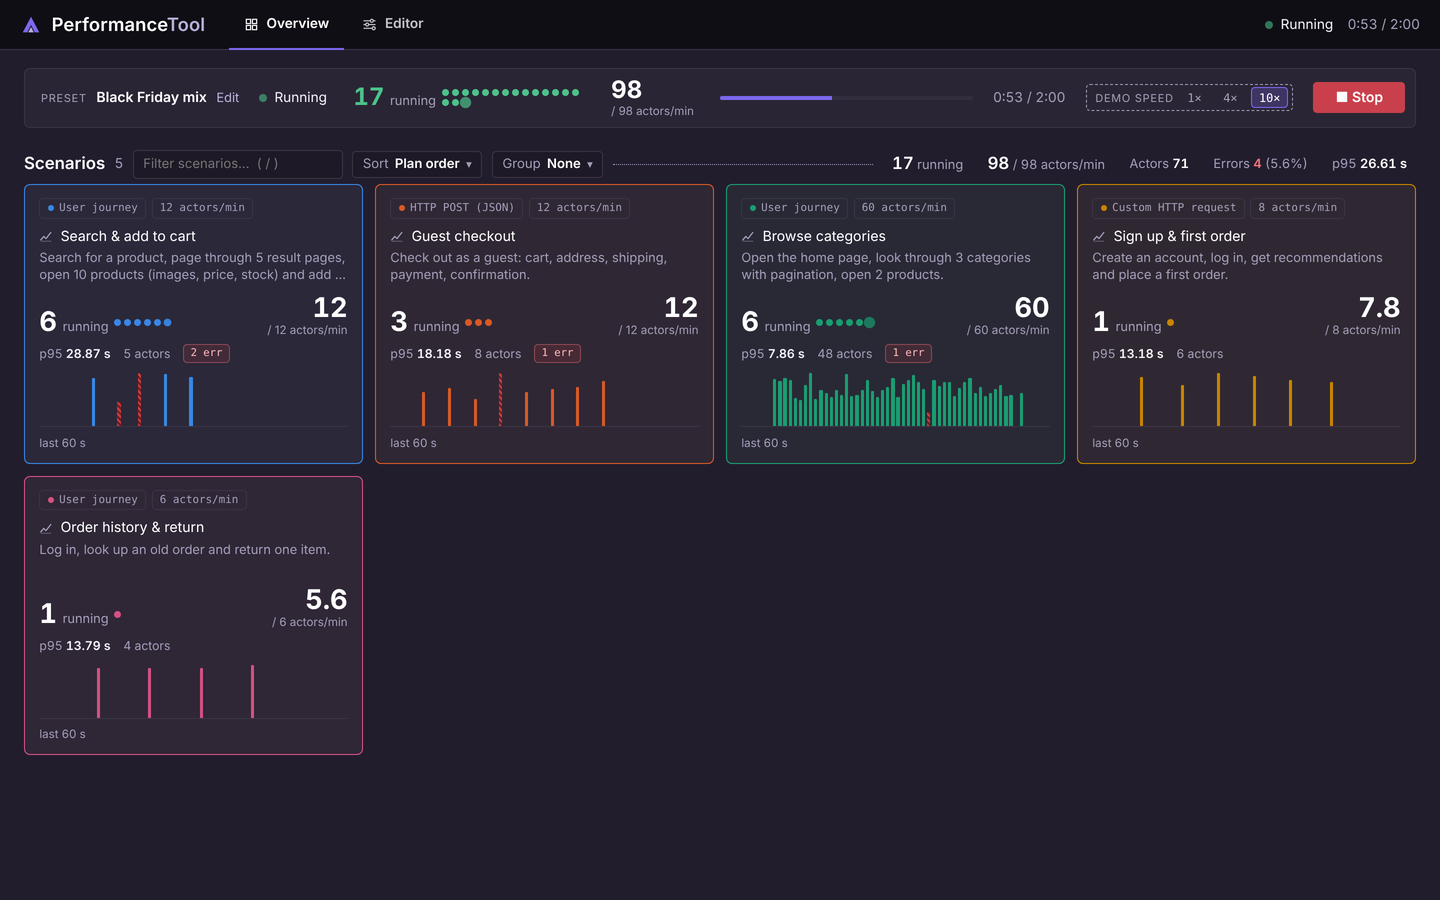
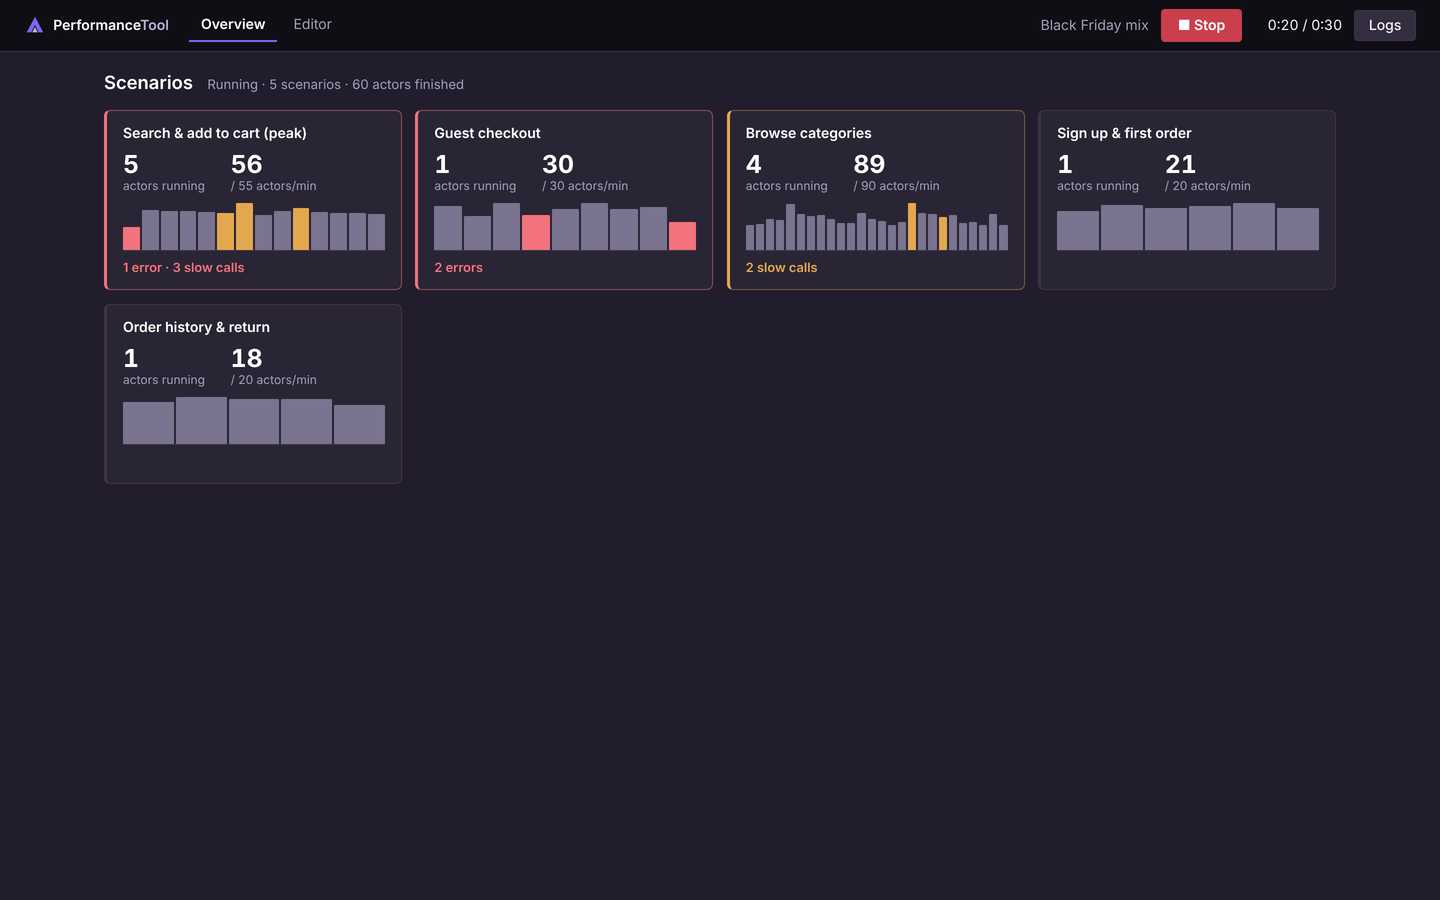
Update screenshots to the simplified core-flow UI
Claude-Session: https://claude.ai/code/session_01S8qvYakWAeYKSDu9E61EFn

diff --git a/docs/screenshots/README.md b/docs/screenshots/README.md
@@ -1,12 +1,12 @@
-# UI draft screenshots
+# UI screenshots
 
-The latest UI drafts (fake data), as shown in the pull request. Regenerate them when the drafts change.
+The current UI (fake data), as shown in pull requests. Regenerate them when the UI changes.
 
 | File | Shows |
 |---|---|
-| `01-overview-running.png` | `/drafts/overview` mid-run (demo speed 10×): story scenarios, actors running, actors/min |
-| `02-popup-calls-stacked-actor-bars.png` | Scenario popup, Calls tab: one stacked bar per actor, segments = calls (brain 0013) |
-| `03-popup-actor-waterfall.png` | Waterfall of one 48-call actor |
-| `04-popup-logs.png` | Popup Logs tab: one logging scope per actor (brain 0012) |
-| `05-editor.png` | `/drafts/editor`: scenario list + generated parameter editor |
+| `01-overview-running.png` | Overview mid-run: neutral cards, red = errors, amber = slow calls (brain 0018) |
+| `02-scenario-popup-actor.png` | Scenario popup: Failed filter, a selected actor and its calls |
+| `03-logs-popup-actor.png` | Logs popup filtered to one actor (brain 0017) |
+| `04-editor-unsaved.png` | Editor with unsaved changes (brain 0019) |
+| `05-logs-3h-run.png` | Logs after a simulated 3-hour run (brain 0021) |
 | `06-overview-phone.png` | Overview at phone width |
